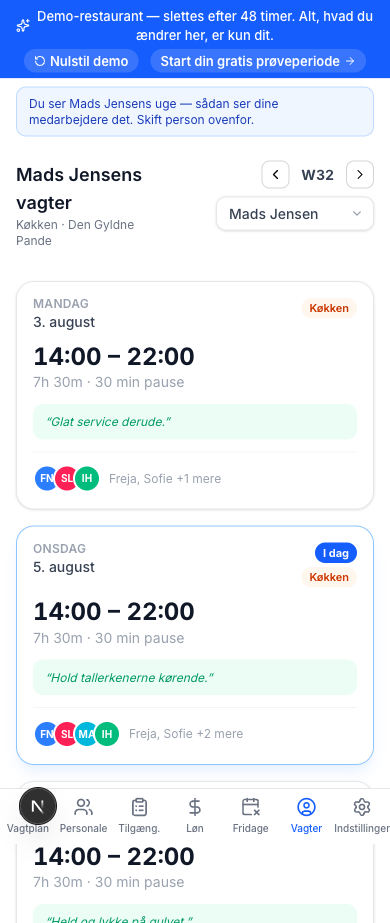
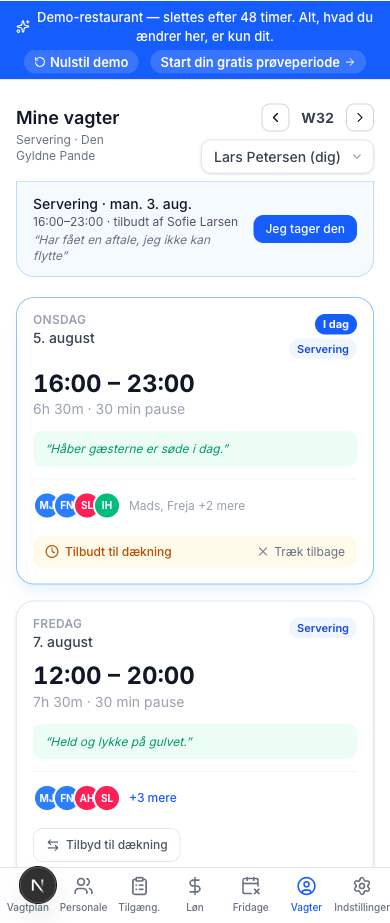
feat(demo): put the sandbox manager on the roster
A demo visitor signs in as the manager, who was deliberately not seeded as
staff. Everything on the employee side resolves the caller's own employee
record, so the visitor had none — the cover pool, the shift-offer inbox and the
per-shift cover button all answered 403 "You don't have an employee profile in
this workspace". #37 hid them, which was right while they couldn't work. This
makes them work.

The manager joins the cast at index 9, front of house, and is rostered by the
same planner as everyone else. That matters more than it sounds: shifts,
contracted hours, labour cost, coverage and seats are all derived from the
roster, so adding them as ordinary staff keeps the sandbox internally
consistent by construction rather than by a special case. seedDemoOrg links
that one row to the manager's user; every other employee stays unclaimed,
because an unlinked employee cannot sign in and a second linked one would hand
the visitor somebody else's identity.

DEMO-009 pins all of it: exactly one manager row, its address matching the
manager account, and at least one shift on it. A rostered manager with no
shifts is worse than none — "My shifts" opens empty and the sandbox reads as
broken rather than unconfigured. Mutation-checked three ways: dropping the flag,
giving the row a staff address, and leaving the manager off the FOH rota each
fail the invariant across all 7 weekdays × 2 locales.

The staff-preview fallback in /my-shifts stays. It is now unreachable for fresh
[…]

diff --git a/apps/web/lib/demo/demoPlan.ts b/apps/web/lib/demo/demoPlan.ts
@@ -69,6 +69,13 @@ export interface PlannedEmployee {
   hourlyWage: number
   contractedHours: number
   employmentType: "FULL_TIME" | "PART_TIME"
+  /**
+   * The visitor's own record. Seeded with `userId` pointing at the manager
+   * account, which is what makes the employee half of the product work in a
+   * sandbox: cover, shift offers and availability all resolve the caller's own
+   * employee row, and a manager who wasn't on the roster had none.
+   */
+  isManager?: boolean
 }
 
 export interface PlannedSchedule {
@@ -183,7 +190,11 @@ function rolesFor(locale: DemoLocale) {
     : { kitchen: "Kitchen", foh: "Front of house", bar: "Bar" }
 }
 
-/** Index layout: 0–3 Kitchen (0 = head chef), 4–6 Front of house, 7–8 Bar. */
+/**
+ * Index layout: 0–3 Kitchen (0 = head chef), 4–6 Front of house, 7–8 Bar.
+ * Index 9 is the manager, appended by buildDemoPlan and rostered front of
+ * house — see MANAGER_IDX and the FOH pool below.
+ */
 interface CastMember {
   name: string
   jobRole: string
@@ -218,8 +229,18 @@ function cast(locale: DemoLocale): CastMember[] {
   ]
 }
 
+/**
+ * The manager's own slot in the cast, appended after the nine staff.
+ *
+ * They are rostered like anyone else rather than being a passive owner: the
+ * sandbox visitor *is* this person, and a demo where "My shifts" is empty and
+ * every cover or offer action answers "you have no employee profile" shows off
+ * half a product. Front of house so they're on the floor on busy nights.
+ */
+const MANAGER_IDX = 9
+
 const KITCHEN = [0, 1, 2, 3]
-const FOH = [4, 5, 6]
+const FOH = [4, 5, 6, MANAGER_IDX]
 const BAR = [7, 8]
 
 /** Weeks seeded either side of the current one. */
@@ -327,9 +348,21 @@ function planWeek(weekIdx: number): RawShift[] {
 export function buildDemoPlan({ locale, now = new Date(), newId }: BuildDemoPlanOptions): DemoPlan {
   const nextId = newId ?? (() => crypto.randomUUID())
   const suffix = nextId().slice(0, 8)
-  const people = cast(locale)
   const isDa = locale === "da"
   const ROLES = rolesFor(locale)
+
+  const manager = {
+    name: isDa ? "Lars Petersen" : "Michael Carter",
+    email: `demo-${suffix}@${DEMO_EMAIL_DOMAIN}`,
+  }
+
+  // The manager joins the roster at MANAGER_IDX, so every downstream
+  // derivation — shifts, contracted hours, labour cost, seats, coverage — sees
+  // them as ordinary staff and stays internally consistent by construction.
+  const people: CastMember[] = [
+    ...cast(locale),
+    { name: manager.name, jobRole: ROLES.foh, wage: isDa ? 152 : 19.5 },
+  ]
 
   const monday0 = getMondayOfWeek(now)
 
@@ -363,14 +396,21 @@ export function buildDemoPlan({ locale, now = new Date(), newId }: BuildDemoPlan
   const contractOffset = (idx: number) => (idx === 3 ? 3 : idx === 6 ? -2 : 0)
   const employees: PlannedEmployee[] = people.map((p, i) => {
     const contracted = Math.round(weekHours(0, i)) + contractOffset(i)
+    const isManager = i === MANAGER_IDX
     return {
       id: employeeIds[i],
       name: p.name,
-      email: `${p.name.toLowerCase().replace(/[^a-z]+/g, ".")}-${suffix}@${DEMO_EMAIL_DOMAIN}`,
+      // The manager's employee row must carry the same address as their user
+      // account: that is what links the two, and what the identity lookups
+      // fall back to before the record is claimed.
+      email: isManager
+        ? manager.email
+        : `${p.name.toLowerCase().replace(/[^a-z]+/g, ".")}-${suffix}@${DEMO_EMAIL_DOMAIN}`,
       jobRole: p.jobRole,
       hourlyWage: p.wage,
       contractedHours: contracted,
       employmentType: contracted >= 37 ? "FULL_TIME" : "PART_TIME",
+      ...(isManager ? { isManager: true } : {}),
     }
   })
 
@@ -612,10 +652,7 @@ export function buildDemoPlan({ locale, now = new Date(), newId }: BuildDemoPlan
       locale,
       settings: { hours, defaultScheduleView: "week", timeOffEnabled: true, timeFormat: "24h" },
     },
-    manager: {
-      name: isDa ? "Lars Petersen" : "Michael Carter",
-      email: `demo-${suffix}@${DEMO_EMAIL_DOMAIN}`,
-    },
+    manager,
     jobRoles: [
       { name: ROLES.kitchen, color: "orange" },
       { name: ROLES.foh, color: "blue" },

diff --git a/apps/web/components/employee/OfferCoverButton.tsx b/apps/web/components/employee/OfferCoverButton.tsx
@@ -23,6 +23,7 @@ export function OfferCoverButton({
   initial?: Active | null
 }) {
   const tToast = useTranslations("manager.toasts")
+  const t = useTranslations("portal.offerCover")
   const [active, setActive] = useState<Active | null>(initial)
   const [busy, setBusy] = useState(false)
 
@@ -35,11 +36,11 @@ export function OfferCoverButton({
         body: JSON.stringify({ shiftId }),
       })
       const res = (await r.json()) as { data?: { id: string; status: string }; error?: string }
-      if (!r.ok || !res.data) throw new Error(res.error ?? "Couldn't offer this shift")
+      if (!r.ok || !res.data) throw new Error(res.error ?? t("errOffer"))
       setActive({ id: res.data.id, status: "OPEN" })
       toast.success(tToast("coverOffered"))
     } catch (err) {
-      toast.error(err instanceof Error ? err.message : "Something went wrong")
+      toast.error(err instanceof Error ? err.message : t("errGeneric"))
     } finally {
       setBusy(false)
     }
@@ -51,11 +52,11 @@ export function OfferCoverButton({
     try {
       const r = await fetch(`/api/orgs/${orgId}/cover-requests/${active.id}`, { method: "DELETE" })
       const res = (await r.json()) as { error?: string }
-      if (!r.ok) throw new Error(res.error ?? "Couldn't withdraw the offer")
+      if (!r.ok) throw new Error(res.error ?? t("errWithdraw"))
       setActive(null)
       toast.success(tToast("coverOfferWithdrawn"))
     } catch (err) {
-      toast.error(err instanceof Error ? err.message : "Something went wrong")
+      toast.error(err instanceof Error ? err.message : t("errGeneric"))
     } finally {
       setBusy(false)
     }
@@ -66,7 +67,7 @@ export function OfferCoverButton({
       <div className="flex items-center justify-between gap-2 rounded-lg bg-amber-50 dark:bg-amber-950/30 px-3 py-2 text-xs">
         <span className="inline-flex items-center gap-1.5 font-medium text-amber-700 dark:text-amber-300">
           <Clock className="size-3.5" />
-          {active.status === "CLAIMED" ? "Claimed — awaiting manager approval" : "Offered for cover"}
+          {active.status === "CLAIMED" ? t("claimed") : t("offered")}
         </span>
         <button
           type="button"
@@ -74,7 +75,7 @@ export function OfferCoverButton({
           disabled={busy}
           className="inline-flex items-center gap-1 text-gray-500 hover:text-gray-700 dark:text-gray-400 dark:hover:text-gray-200 disabled:opacity-40 transition-colors"
         >
-          <X className="size-3.5" /> Withdraw
+          <X className="size-3.5" /> {t("withdraw")}
         </button>
       </div>
     )
@@ -88,7 +89,7 @@ export function OfferCoverButton({
       className="inline-flex items-center justify-center gap-1.5 rounded-lg border border-gray-200 dark:border-gray-700 px-3 py-2 text-xs font-medium text-gray-600 dark:text-gray-300 hover:bg-gray-50 dark:hover:bg-gray-800 disabled:opacity-40 transition-colors"
     >
       <ArrowLeftRight className="size-3.5" />
-      {busy ? "Offering…" : "Offer for cover"}
+      {busy ? t("offering") : t("offer")}
     </button>
   )
 }

diff --git a/apps/web/lib/__tests__/seedDemoOrg.test.ts b/apps/web/lib/__tests__/seedDemoOrg.test.ts
@@ -79,15 +79,35 @@ describe("seedDemoOrg", () => {
     )
   })
 
-  it("seeds 9 unreachable employees (demo domain, no phone, no user)", async () => {
+  it("seeds 10 unreachable employees (demo domain, no phone)", async () => {
     await seedDemoOrg("en")
     const employees = rows(vi.mocked(db.employee.createMany))
-    expect(employees).toHaveLength(9)
+    // Nine staff plus the manager, who is on the roster so the visitor's own
+    // "My shifts", cover and shift-offer views have something to resolve.
+    expect(employees).toHaveLength(10)
     for (const e of employees) {
+      // The load-bearing half: a sandbox must never be able to email or text a
+      // real person. This holds for the manager's row too.
       expect((e.email as string).endsWith(`@${DEMO_EMAIL_DOMAIN}`)).toBe(true)
       expect(e.phone).toBeNull()
-      expect(e.userId).toBeNull()
     }
+  })
+
+  it("links exactly one employee — the manager's own — to the manager account", async () => {
+    await seedDemoOrg("en")
+    const employees = rows(vi.mocked(db.employee.createMany))
+    const linked = employees.filter((e) => e.userId !== null)
+
+    // Every other row stays unclaimed: an unlinked employee cannot sign in, and
+    // linking a second one would hand the visitor someone else's identity.
+    expect(linked).toHaveLength(1)
+    expect(linked[0].userId).toBe("user_demo")
+
+    const managerEmail = (vi.mocked(db.user.create).mock.calls[0][0] as { data: AnyRow }).data.email
+    expect(
+      linked[0].email,
+      "the linked row must carry the manager's own address — that is what the identity lookups fall back to before the record is claimed",
+    ).toBe(managerEmail)
   })
 
   it("uses the Danish cast for da sandboxes", async () => {

diff --git a/apps/web/lib/demo/demoInvariants.ts b/apps/web/lib/demo/demoInvariants.ts
@@ -128,6 +128,24 @@ export function checkDemoPlan(plan: DemoPlan): DemoViolation[] {
     warn("DEMO-008", `${plan.employees.length} employees exceeds ${plan.org.seats} seats`)
   }
 
+  // The visitor's own employee row. Without it the employee half of the product
+  // is unreachable in a sandbox — cover, shift offers and availability all
+  // resolve the caller's own record and answer 403 when there isn't one. With
+  // more than one, or with an address that doesn't match the manager account,
+  // the visitor is handed somebody else's identity instead.
+  const managerRows = plan.employees.filter((e) => e.isManager)
+  if (managerRows.length !== 1) {
+    err("DEMO-009", `expected exactly 1 manager employee row, found ${managerRows.length}`)
+  } else if (managerRows[0].email !== plan.manager.email) {
+    err("DEMO-009", `manager employee email ${managerRows[0].email} ≠ account ${plan.manager.email}`)
+  }
+  const managerShifts = plan.shifts.filter((s) => s.employeeId === managerRows[0]?.id && !s.cancelledAt)
+  if (managerRows.length === 1 && managerShifts.length === 0) {
+    // A rostered manager with no shifts is worse than none: "My shifts" opens
+    // empty and the sandbox looks broken rather than unconfigured.
+    err("DEMO-009", "the manager is on the roster but has no shifts")
+  }
+
   // ── Self-consistency ────────────────────────────────────────────────────────
   const byEmpDate = new Map<string, PlannedShift[]>()
   for (const s of live) {

diff --git a/apps/web/lib/demo/seedDemoOrg.ts b/apps/web/lib/demo/seedDemoOrg.ts
@@ -117,7 +117,11 @@ async function writeDemoPlan(plan: DemoPlan): Promise<DemoSeedResult> {
       name: e.name,
       email: e.email,
       phone: null,
-      userId: null,
+      // Linking the manager's own row to their account is what makes the
+      // employee half of the product work in a sandbox: cover, shift offers
+      // and availability all resolve the caller's employee record, and a
+      // visitor who wasn't on the roster had none to resolve.
+      userId: e.isManager ? user.id : null,
       jobRole: e.jobRole,
       hourlyWage: e.hourlyWage,
       contractedHours: e.contractedHours,
